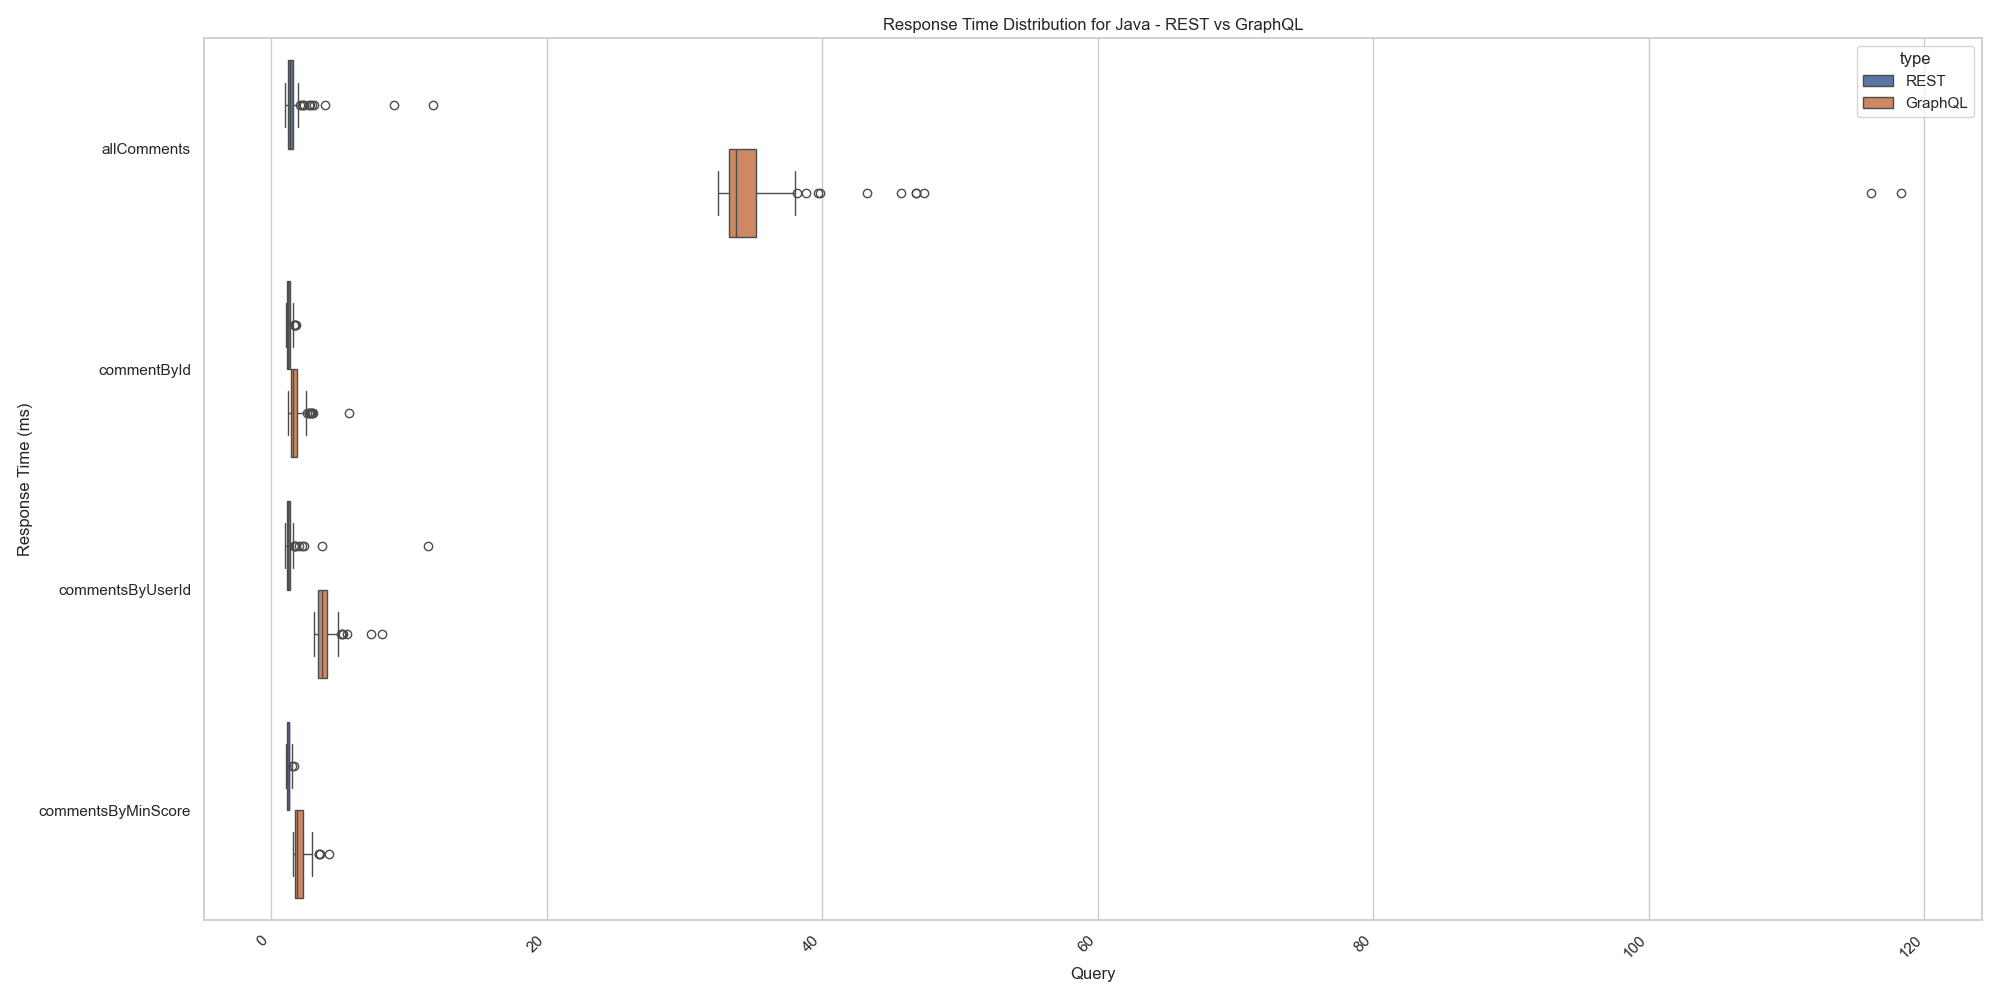
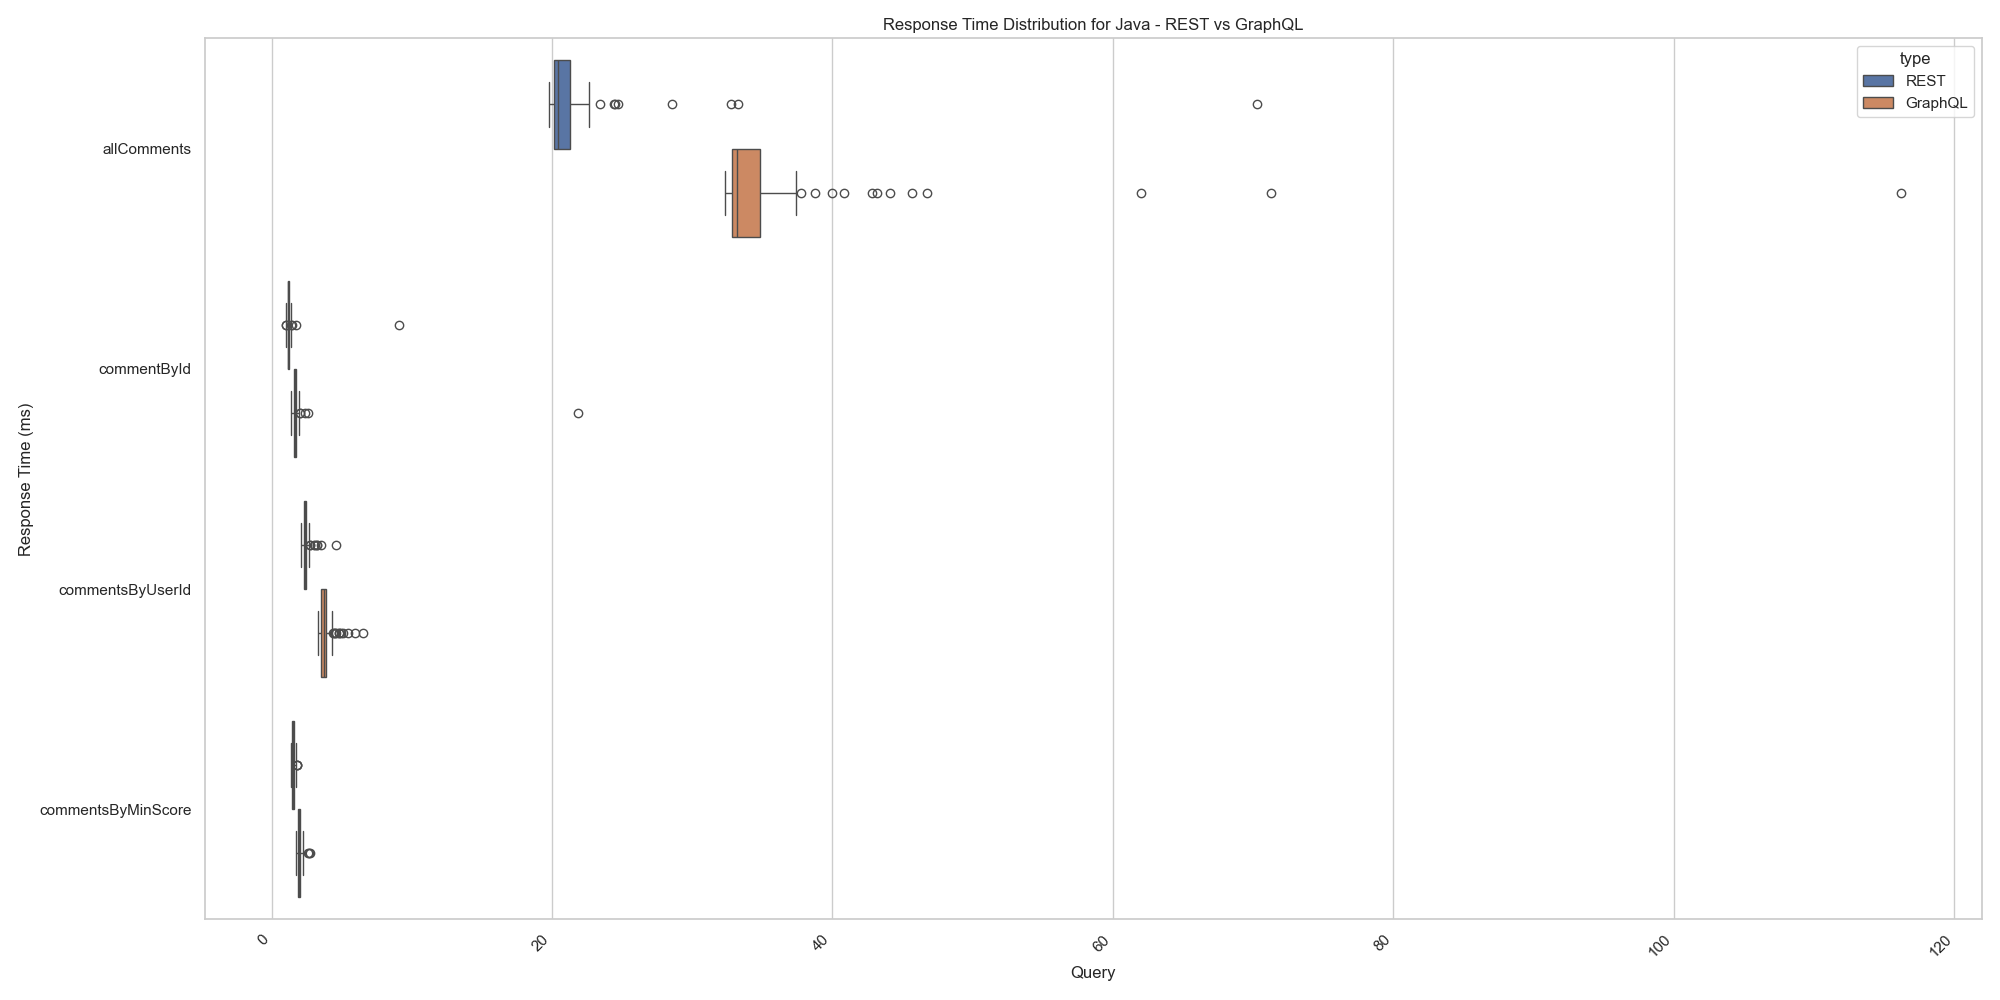
Added plots

diff --git a/code/javascript/restServer.js b/code/javascript/restServer.js
@@ -39,7 +39,7 @@ app.get("/comments/:id", async (req, res) => {
     const data = await loadData();
 
     // JSONPath query
-    const comment = jp.query(data, `$[?(@.Id == ${commentId})]`);
+    const comment = jp.query(data, `$[?(@.id == ${commentId})]`);
 
     if (comment.length === 0) {
       return res.status(404).json({ error: `Comment with id ${commentId} was not found.` });
@@ -60,7 +60,7 @@ app.get("/comments/user/:id", async (req, res) => {
     const data = await loadData();
 
     // JSONPath query
-    const comment = jp.query(data, `$[?(@.UserId == ${userId})]`);
+    const comment = jp.query(data, `$[?(@.userId == ${userId})]`);
 
     if (comment.length === 0) {
       return res.status(404).json({ error: `No comments made by ${userId} were found.` });
@@ -83,7 +83,7 @@ app.get("/comments/min-score/:score", async (req, res) => {
     const data = await loadData();
 
     // JSONPath query
-    const comments = jp.query(data, `$[?(@.Score >= ${minScore})]`);
+    const comments = jp.query(data, `$[?(@.score >= ${minScore})]`);
 
     if (comments.length === 0) {
       return res.status(404).json({ error: `No comments with score >= ${minScore} were found.` });

diff --git a/code/client/plots.py b/code/client/plots.py
@@ -57,6 +57,7 @@ def plot_comparative_performance():
     plt.savefig(f"{output_dir}/response_time_distribution.png")
     plt.show()
 
+
 def plot_comparative_size():
     rest_results, graphql_results = load_size_results()
 
@@ -87,6 +88,38 @@ def plot_comparative_size():
     plt.show()
 
 
+def plot_total_response_size():
+    # Load REST and GraphQL size data
+    rest_results = pd.read_csv(f"results/{args.mode}/response_size/rest_results.csv")
+    graphql_results = pd.read_csv(f"results/{args.mode}/response_size/graphql_results.csv")
+
+    # Combine data into a single DataFrame
+    combined_results = pd.DataFrame({
+        'Protocol': ['REST', 'GraphQL'],
+        'Total Response Size (chars)': [
+            rest_results['total_response_size'].sum(),
+            graphql_results['total_response_size'].sum()
+        ]
+    })
+
+    # Plot the data
+    sns.set(style="whitegrid")
+    output_dir = f"results/plots/{args.mode}"
+    os.makedirs(output_dir, exist_ok=True)
+
+    plt.figure(figsize=(8, 6))
+    sns.barplot(x='Protocol', y='Total Response Size (chars)', data=combined_results, palette='viridis')
+
+    plt.title(f'Total Response Size Comparison - {args.mode.capitalize()}')
+    plt.xlabel('Protocol')
+    plt.ylabel('Total Response Size (characters)')
+    plt.tight_layout()
+
+    # Save the plot
+    plt.savefig(f"{output_dir}/total_response_size_comparison.png")
+    plt.show()
+
+
 if __name__ == "__main__":
     plot_comparative_performance()
-    plot_comparative_size()
+    plot_total_response_size()

diff --git a/docs/report.md b/docs/report.md
@@ -145,13 +145,13 @@ Os resultados da Figura 4 destacam que:
 
 #### 5.2.1. Java
 
-![Gráfico com distribuição dos tempos de resposta](../code/client/results/plots/java/response_size_comparison.png)
+![Gráfico com distribuição dos tempos de resposta](../code/client/results/plots/java/size_comparison_java.jpeg)
 
 _Figura 5: Distribuição dos tempos de resposta_
 
 #### 5.2.2. JavaScript
 
-![Gráfico com distribuição dos tempos de resposta](../code/client/results/plots/javascript/response_size_comparison.png)
+![Gráfico com distribuição dos tempos de resposta](../code/client/results/plots/javascript/size_comparison_plot_javascript.jpeg)
 
 _Figura 6: Distribuição dos tempos de resposta_
 
